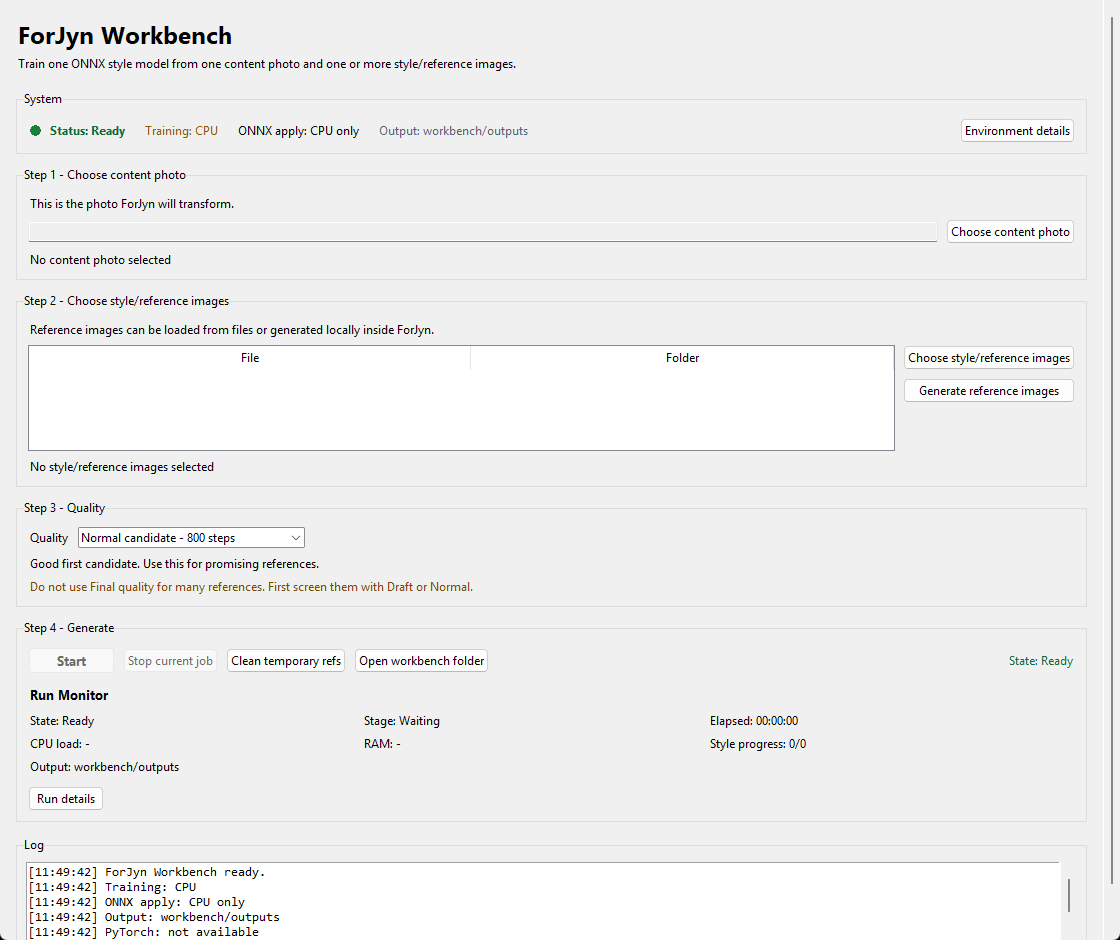
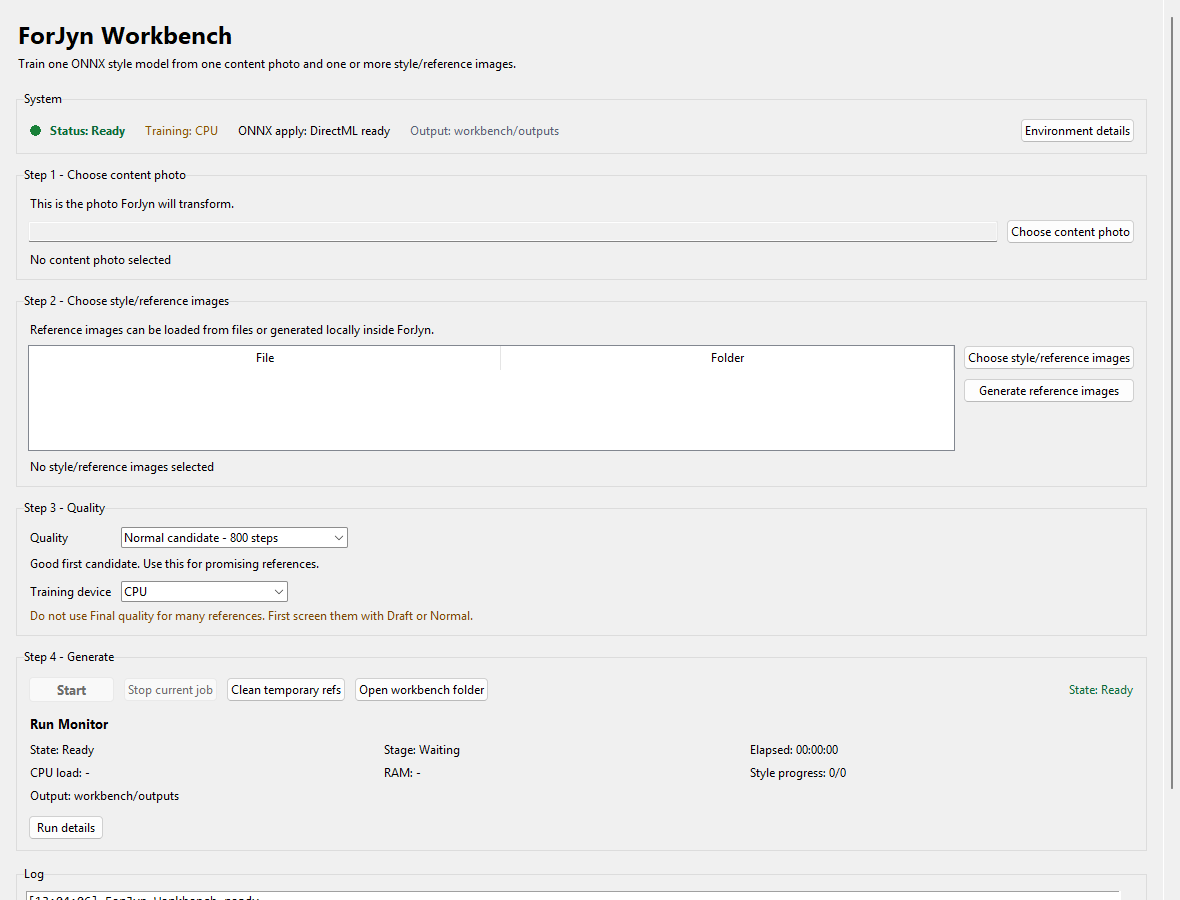
docs: document experimental DirectML training

diff --git a/docs/GPU_TRAINING_EXPERIMENTAL.md b/docs/GPU_TRAINING_EXPERIMENTAL.md
@@ -1,0 +1,89 @@
+# Experimental DirectML Training
+
+DirectML training is an experimental opt-in path for AMD/Windows testing. The stable ForJyn training path remains CPU, and ONNX apply/validation still uses ONNX Runtime DirectML when available in the stable `.venv`.
+
+Do not install these packages into `.venv`. Keep the GPU experiment isolated in `.venv-gpu`.
+
+## Current Status
+
+- Stable default training: CPU.
+- Experimental training option: DirectML through `torch-directml`.
+- Tested spike environment: Python 3.12, `torch-directml 0.2.5.dev240914`, `torch 2.4.1+cpu`.
+- DirectML device name reported by PyTorch: `privateuseone:0`.
+- Known warning: Adam may fall back to CPU for `aten::lerp.Scalar_out`.
+- Speedup is not guaranteed. The spike micro benchmark was too small to justify changing the default.
+- ROCm Windows was evaluated but not integrated for this GPU path.
+
+## Create The Separate Environment
+
+From the repository root:
+
+```powershell
+py -3.12 -m venv .venv-gpu
+.\.venv-gpu\Scripts\python.exe -m pip install --upgrade pip
+.\.venv-gpu\Scripts\python.exe -m pip install torch-directml
+```
+
+Install the non-torch ForJyn runtime dependencies without replacing the `torch-directml` PyTorch build:
+
+```powershell
+.\.venv-gpu\Scripts\python.exe -m pip install numpy==2.4.6 pillow==12.2.0 onnx==1.21.0 onnxscript==0.7.0 onnxruntime-directml==1.24.4 psutil==7.2.2
+```
+
+Do not run `setup_windows.bat` for `.venv-gpu`; that script owns the stable `.venv` setup.
+
+## Verify DirectML
+
+```powershell
+.\.venv-gpu\Scripts\python.exe -c "import torch; print(torch.__version__)"
+.\.venv-gpu\Scripts\python.exe -c "import torch_directml; print(torch_directml.device())"
+.\.venv-gpu\Scripts\python.exe tools\forjyn_workbench_gui.py --check
+```
+
+The GUI check should report:
+
+```text
+DirectML training experimental: yes
+```
+
+If `torch_directml` is missing, ForJyn keeps DirectML training hidden in the GUI and `--device directml` fails with a clear error.
+
+## Run The GUI With DirectML Training
+
+Launch the GUI from the isolated environment:
+
+```powershell
+.\.venv-gpu\Scripts\python.exe tools\forjyn_workbench_gui.py
+```
+
+Then choose `DirectML experimental` in the training device control. Keep Draft runs short while testing. Outputs still go under ignored `workbench/`.
+
+Backend equivalent:
+
+```powershell
+.\.venv-gpu\Scripts\python.exe tools\forjyn_workbench.py run-job --content "C:\path\photo.jpg" --style "C:\path\reference.png" --name "reference" --steps 300 --device directml
+```
+
+## Return To The Stable Path
+
+Use the normal stable environment:
+
+```powershell
+.\run_forjyn_workbench.bat
+```
+
+or:
+
+```powershell
+.\.venv\Scripts\python.exe tools\forjyn_workbench_gui.py
+```
+
+The stable environment should continue to report CPU training and ONNX Runtime DirectML apply when available.
+
+## Known Limits
+
+- DirectML training is not stable project guidance.
+- CPU remains the default.
+- Some optimizer operations may fall back to CPU.
+- Results and speed can vary by driver, Python version, PyTorch version, image size, and step count.
+- Long benchmarks should be run only as a separate task with a fixed dataset and clear timing method.

diff --git a/docs/WORKLOG.md b/docs/WORKLOG.md
@@ -23,6 +23,7 @@
 - 2026-06-09: Experimental DirectML training was added as explicit opt-in only: CLI accepts `--device directml`, GUI shows/selects DirectML training only when `torch_directml` is importable, and CPU remains the default. ForJyn micro training passed on DirectML, but Adam emitted a DML CPU fallback warning for `aten::lerp.Scalar_out`.
 - 2026-06-09: Micro benchmark, cache warm, synthetic 2-image dataset, 64px, batch 1, 2 optimizer steps: CPU `.venv` took `2.958s`; DirectML `.venv-gpu` took `2.807s`. This is roughly `1.05x` faster but too small and noisy to justify enabling DirectML by default. Treat DirectML training as usable for later investigation, not stable production guidance.
 - 2026-06-09: ROCm/PyTorch on Windows was evaluated from AMD docs and not installed. AMD documents PyTorch ROCm Windows wheels for Python 3.12 and driver `26.2.2`, but the current Windows PyTorch 7.2.1 support matrix lists `gfx1201`, `gfx1200`, `gfx1100`, and `gfx1101` Radeon hardware, not RX 6900 XT / `gfx1030`. Sources: https://rocm.docs.amd.com/projects/radeon-ryzen/en/latest/docs/install/installryz/windows/install-pytorch.html and https://rocm.docs.amd.com/projects/radeon-ryzen/en/latest/docs/compatibility/compatibilityrad/windows/windows_compatibility.html.
+- 2026-06-09: DirectML training spike was merged to `master` as experimental opt-in documentation and code. A dedicated `.venv-gpu` manual setup guide was added; no generated runtime artifacts are tracked.
 
 ## Current Next Step
 

diff --git a/README.md b/README.md
@@ -105,6 +105,7 @@ The inherited upstream ONNX weights in `weights/` stay tracked as baseline/demo 
 - Upstream method: perceptual losses for real-time style transfer and super-resolution, plus instance normalization.
 - Core libraries: PyTorch, torchvision, ONNX, ONNX Runtime, Pillow, NumPy.
 - Optional Windows inference acceleration: ONNX Runtime DirectML, with CPU fallback.
+- Experimental Windows training acceleration: PyTorch DirectML is opt-in only and documented separately. CPU remains the default training path.
 - Training loss path may use VGG16 pretrained weights through torchvision.
 
 The upstream README states MIT licensing for the original project. See [docs/THIRD_PARTY.md](docs/THIRD_PARTY.md) for attribution, dependency notes, and current license boundaries.
@@ -116,6 +117,7 @@ Do not train or publish models from unclear third-party assets, commercial app p
 ## Documentation
 
 - [Workbench guide](docs/WORKBENCH.md)
+- [Experimental DirectML training](docs/GPU_TRAINING_EXPERIMENTAL.md)
 - [Project scope](docs/PROJECT_SCOPE.md)
 - [Model policy](docs/MODEL_POLICY.md)
 - [Third-party notes](docs/THIRD_PARTY.md)

diff --git a/docs/PROJECT_SCOPE.md b/docs/PROJECT_SCOPE.md
@@ -12,6 +12,7 @@ ForJyn is not a full Photoshop-like editor and not a cloud service. It does not 
 - Export dynamic H/W, shape-preserving ONNX models.
 - Validate and apply ONNX models locally.
 - Create review sheets for candidate screening.
+- Keep DirectML training experimental and opt-in unless a separate benchmark task proves it should change.
 - Keep generated artifacts under ignored `workbench/` unless a release process explicitly packages them.
 - Keep CI and local tests lightweight: path checks, CLI smoke checks, generator smoke checks, and repository hygiene only.
 

diff --git a/docs/WORKBENCH.md b/docs/WORKBENCH.md
@@ -159,6 +159,8 @@ DirectML has two separate roles:
 
 If the GUI reports CPU only, that is not automatically a bug. Keep CPU as the default unless a local isolated benchmark proves DirectML training is faster and stable for the chosen job size.
 
+Manual setup and test commands for the separate `.venv-gpu` experiment are in [Experimental DirectML Training](GPU_TRAINING_EXPERIMENTAL.md).
+
 ## WebP
 
 ForJyn accepts WebP only when Pillow reports WebP support in the current environment. If WebP fails, convert the image to JPG or PNG and rerun the job.
